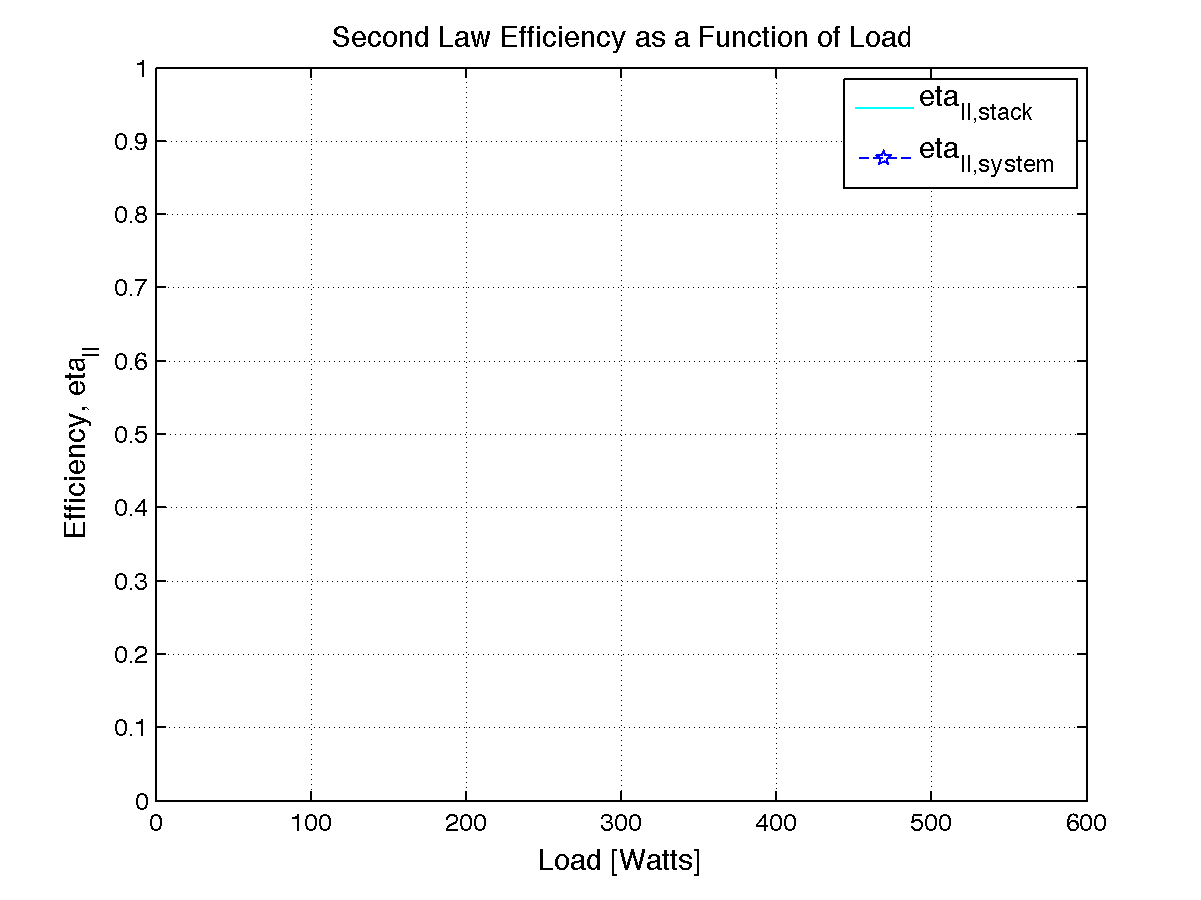
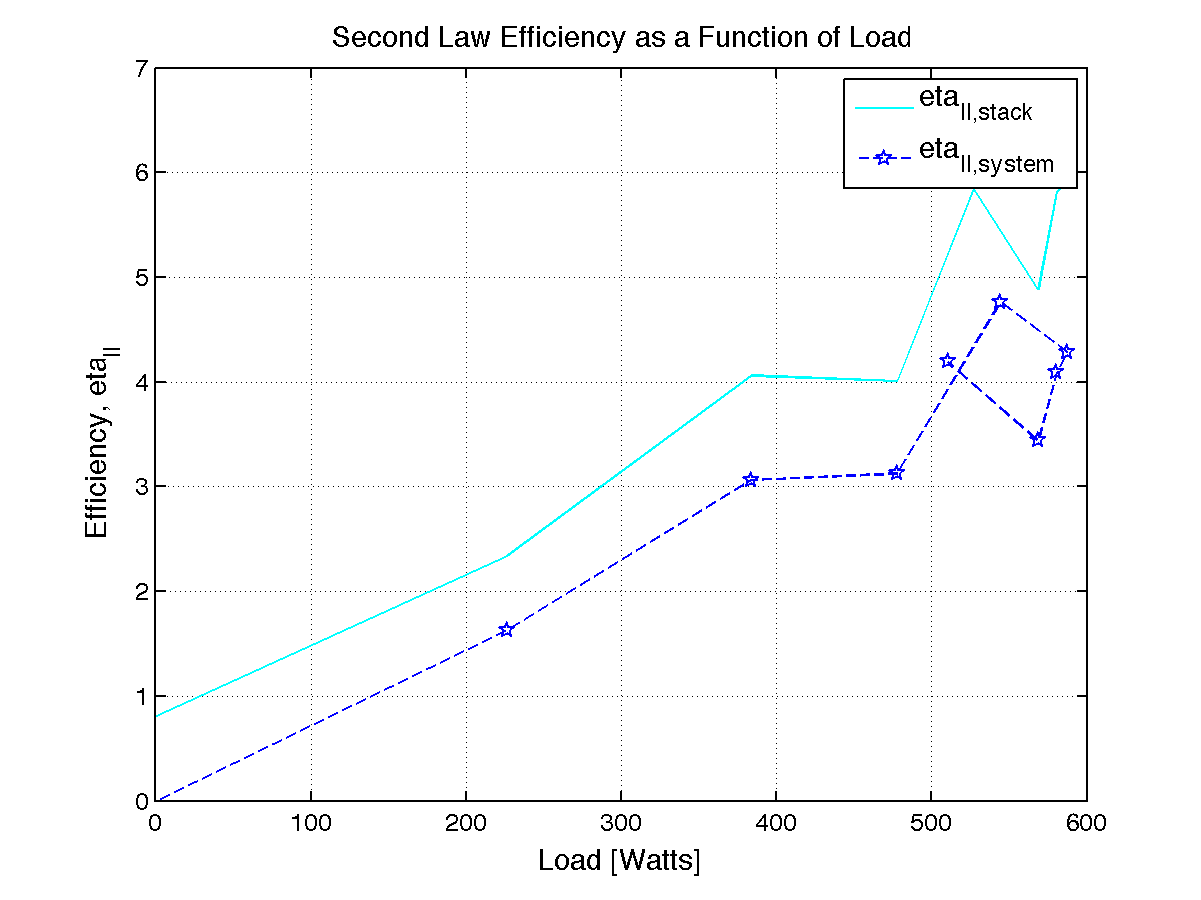
fixed units for efficiencies
still issues with eta_II

diff --git a/me140_project5/me140_project5.m b/me140_project5/me140_project5.m
@@ -10,12 +10,13 @@ G_TO_KG = 10^3;
 
 % Molar Masses
 MM_h = 1.00794; % g/mol
+MM_h2 = 2* MM_h;
 MM_o = 15.9994;
 MM_n = 14.0067;
 MM_h2o = 2*MM_h + MM_o;
 MM_air = 28.97;
 
-global PERMIN_TO_PERSEC PERHR_TO_PERSEC G_PER_KG LHV F N_TO_O SCF_TO_MOLS C_TO_K
+global PERMIN_TO_PERSEC PERHR_TO_PERSEC G_PER_KG LHV F N_TO_O SCF_TO_MOLS C_TO_K PSI_TO_PA
 defineGlobals();
 mol_H2 = 1;
 savePlots = 1;
@@ -27,18 +28,21 @@ savePlots = 1;
 i_load =  [0.00 15.06 27.25 36.48 45.1 52.1 56.3 57.6 56.4];       % [Amps]
 i_stack = [4.82 21.40 35.65 47.20 59.8 69.7 77.0 79.0 80.0];
 
+
 % Potentials (load & stack)
 v_load =  [17.07 15.05 14.08 13.10 12.07 11.27 10.31 9.87  9.05 ]; % [Volts]
 v_stack = [17.09 15.22 14.26 12.98 12.42 11.60 10.73 10.21 9.48];
 
+
 % Temperatures from Thermocouple Readings [C]
 % KEY: (Kendall please fill in with photo you took)
-T1_C = [42.8 42.9 46.1 48.5 50.5 52.8 54.8 55.8 56.5]; 
-T1 = T1_C + C_TO_K;                                                % [K],  T1, air into stack
-T2_C =     [42.5 45.8 45.8 48.4 50.3 51.9 53.3 53.9 54.3];         
-T2 = T2_C + C_TO_K;                                                % [K],  T2, air out of stack 
+T1_C = [42.8 42.9 46.1 48.5 50.5 52.8 54.8 55.8 56.5];
+T2_C =     [42.5 45.8 45.8 48.4 50.3 51.9 53.3 53.9 54.3];
 Tstack_C = [40.7 41.3 42.5 42.9 44.6 45.6 46.9 46.9 47.6];  
-Tstack = Tstack_C + C_TO_K;
+
+T1 = T1_C + C_TO_K;                                                % [K],  T1, air into stack
+T2 = T2_C + C_TO_K;                                                % [K],  T2, air out of stack 
+Tstack = Tstack_C + C_TO_K;                                        % [K],  metal plates on the stack
 
 % NOTE: T3-T5 are not needed for now
 % T3_C =     [48.0 47.1 48.6 48.9 50.4 51.1 51.2 51.1 51.1];       % T3, water reservoir DON'T USE!
@@ -48,23 +52,29 @@ Tstack = Tstack_C + C_TO_K;
 % T5_C =     [40.7 41.3 42.5 42.9 44.6 45.6 46.9 46.9 47.6];       % T5, water into heat exchanger
 % T5 = T5_C + C_TO_K;
 
+
 % Mass Flow Rates (TODO: check what units the mdots should be in)
-mdot_h2_scf =  [2.50 6.20 10.5 14.3 18.2 22.0 24.6 25.0 26.1];     % scf/hr (standard cubic feet/hour)
-mdot_air_scf = [0.75 1.10 1.45 1.81 2.55 3.10 3.30 3.25 3.40];     % scf/min
+mdot_total_scf = [0.75 1.10 1.45 1.81 2.55 3.10 3.30 3.25 3.40];   % scf/min
+mdot_fuel_scf =  [2.50 6.20 10.5 14.3 18.2 22.0 24.6 25.0 26.1];   % scf/hr (standard cubic feet/hour)
 
-mdot_h2 = mdot_h2_scf   * SCF_TO_MOLS * PERHR_TO_PERSEC * MM_h2  / G_TO_KG;  % kg/s	
-mdot_air = mdot_air_scf * SCF_TO_MOLS * PERMIN_TO_PERSEC* MM_air / G_TO_KG;  % kg/s
+mdot_total = mdot_air_scf * SCF_TO_MOLS * PERMIN_TO_PERSEC* MM_air / G_TO_KG;  % kg/s
+mdot_fuel = mdot_fuel_scf * SCF_TO_MOLS * PERHR_TO_PERSEC * MM_h2  / G_TO_KG;  % kg/s	
+mdot_h2o = 40 /G_TO_KG;                                                        % kg/s
 
-mdot_h2o = 40 /G_TO_KG;                                            % kg/s (ASSUMPTION for Part 3)
 
+% Pressures
+Pfuel_psi =  [2.9 2.9 3.1 3.3 3.30 3.20 3.00 3.0 3.1];              % [psi] (gauge)
+Ptotal_psi = [0.2 0.3 0.6 0.7 1.15 1.25 1.35 1.3 1.5];              % [psi] (gauge), pressure of combined air and H2O after humidifier
+Pfuel =  Pfuel_psi  .* PSI_TO_PA;                                   % [Pa] (gauge)
+Ptotal = Ptotal_psi .* PSI_TO_PA;                                   % [Pa] (gauge)
 
 % CALCULATIONS
 % ------------
 % Power (USE: p = i*v) 
 % NOTE: "Accessories" include H2O pump, air pump, H2 vent, & controller                 
-p_load =  i_load  .* v_load;                                        % a.k.a. "load" (power delivered to resistor bank)
+p_load =  i_load  .* v_load;                                        % [W] = [kg*m^2*s^-3], a.k.a. "load" (power delivered to resistor bank)
 p_stack = i_stack .* v_stack;
-p_access = p_stack - p_load;                                        % Acessory Power, i.e. power used to run controls. Pstack-Pload
+p_access = p_stack - p_load;                                        % [W], Acessory Power, i.e. power used to run controls. Pstack-Pload
 
 f1 = figure(1);
 plot(p_load,i_load,p_load,i_stack);
@@ -85,7 +95,7 @@ xlabel('Load []'); ylabel('Power []');
 legend('P_{stack}','P_{accessory}'); plotfixer();grid on;
 
 f4 = figure(4);
-plot(p_load,mdot_h2,p_load,mdot_air);
+plot(p_load,mdot_fuel,p_load,mdot_total);
 title('Mass Flow Rate as a Function of Load');
 xlabel('Load []'); ylabel('Mass Flow Rate []');
 legend('mdot_{H}','mdot_{air}'); plotfixer();grid on
@@ -97,10 +107,10 @@ legend('mdot_{H}','mdot_{air}'); plotfixer();grid on
 
 % 1st & 2nd Law Efficiencies (eta_I & eta_II) & Inefficiencies (Idot)
 % Stack
-[etaI_stack ,etaII_stack, Idot_stack] = findEtas(Tstack, p_stack);
+[etaI_stack ,etaII_stack, Idot_stack] = findEtas(mdot_total, mdot_fuel, Ptotal, Pfuel, T2, p_stack);
 
 % Entire System (Load)
-[etaI_load ,etaII_load, Idot_load] =    findEtas(Tstack, p_load);
+[etaI_load ,etaII_load, Idot_load] =    findEtas(mdot_total, mdot_fuel, Ptotal, Pfuel, T2, p_load);
 
 f5 = figure(5);
 plot(p_load,etaI_stack,'c',p_load,etaI_load,'bp--');

diff --git a/me140_project5/findEtas.m b/me140_project5/findEtas.m
@@ -7,9 +7,9 @@
 % (i) 1 mol of H2                    
 % (ii) isothermal & isobaric      % TODO: CHECK THESE ASSUMPTIONS!
 
-function [eta_I, eta_II, Idot] = findEtas(T,Wdot)
+function [eta_I, eta_II, Idot] = findEtas(mdot_total, mdot_fuel, Ptotal, Pfuel, T, Wdot)
 
-global PERMIN_TO_PERSEC PERHR_TO_PERSEC G_PER_KG LHV F N_TO_O SCF_TO_MOLS C_TO_K
+global PERMIN_TO_PERSEC PERHR_TO_PERSEC G_PER_KG LHV F N_TO_O SCF_TO_MOLS C_TO_K PSI_TO_PA
 defineGlobals();
 % Constants                                                  % Engineering Air Molar Mass Ratio of Nitrogen to Oxygen
 specs = Spec();                                                     % class initialization
@@ -21,21 +21,10 @@ MM_n = 14.0067;
 MM_h2o = 2*MM_h + MM_o;
 MM_air = 28.97;
 
-% Pressures
-Pfuel =  [2.9 2.9 3.1 3.3 3.30 3.20 3.00 3.0 3.1];                  % psi (gauge)
-Ptotal =   [0.2 0.3 0.6 0.7 1.15 1.25 1.35 1.3 1.5];                % psi (gauge), pressure of combined air and H2O after humidifier
-
-% Mass Flow Rates (TODO: check what units the mdots should be in)
-mdot_h2_scf =  [2.50 6.20 10.5 14.3 18.2 22.0 24.6 25.0 26.1];      % scf/hr (standard cubic feet/hour)
-mdot_h2 = mdot_h2_scf .* SCF_TO_MOLS * PERHR_TO_PERSEC;             % mols/s
-mdot_air_scf = [0.75 1.10 1.45 1.81 2.55 3.10 3.30 3.25 3.40];      % scf/min
-mdot_air = mdot_air_scf * SCF_TO_MOLS * PERMIN_TO_PERSEC;           % mols/s
-mdot_h2o = 40;                                                      % g/s (ASSUMPTION for Part 3) % TODO: convert this
-
 % Excess Air Coefficient (lambda)
 mol_h2 = 1;
 mol_h2o_prod = mol_h2;
-AF = mdot_air./mdot_h2;
+AF = mdot_total./mdot_fuel;
 mair = 0.5*(1+N_TO_O)*MM_air;
 mfuel = mol_h2*(2*MM_h);
 AFs = mair/mfuel;
@@ -99,18 +88,18 @@ y_n2_prod = mol_n2      ./ mol_total_prod;
 % Change in Gibbs Free Energy (dG)
 % --------------------------------
 % Reactants
-Gdot_react = gEng(T, Pfuel,             'h2',mol_h2)      .* mdot_h2 ...
-           + gEng(T, Ptotal .* y_o2_react,'o2',mol_o2_react).* mdot_air ...
-           + gEng(T, Ptotal .* y_n2_react,'n2',mol_n2)      .* mdot_air;
+Gdot_react = gEng(T, Pfuel,             'h2'  ,mol_h2)      .* mdot_fuel ...   % [J*kg*s^-1]
+           + gEng(T, Ptotal .* y_o2_react,'o2',mol_o2_react).* mdot_total ...
+           + gEng(T, Ptotal .* y_n2_react,'n2',mol_n2)      .* mdot_total;
 if(alpha ~= 0 ) 
-    Gdot_react = Gdot_react + gEng(T,Ptotal.*y_h2o_react,'h2ovap',alpha).* mdot_h2o; 
+    Gdot_react = Gdot_react + gEng(T,Ptotal.*y_h2o_react,'h2ovap',alpha).* mdot_total; 
 end
 
 % Products
-Gdot_prod = gEng(T, Ptotal.*y_h2ovap,   'h2ovap', mol_h2ovap) .* mdot_h2o... %% THIS WAS THE PART 2 BUG FROM PROJECT #4!
-          + gEng(T, Ptotal,            'h2o',    mol_h2oliq) .* mdot_h2o...
-          + gEng(T, Ptotal.*y_o2_prod, 'o2',     mol_o2_prod).* mdot_air...   
-          + gEng(T, Ptotal.*y_n2_prod, 'n2',     mol_n2)     .* mdot_air;
+Gdot_prod = gEng(T, Ptotal.*y_h2ovap,   'h2ovap', mol_h2ovap) .* mdot_total... %% THIS WAS THE PART 2 BUG FROM PROJECT #4!
+          + gEng(T, Ptotal,            'h2o',    mol_h2oliq)  .* mdot_total...
+          + gEng(T, Ptotal.*y_o2_prod, 'o2',     mol_o2_prod) .* mdot_total...   
+          + gEng(T, Ptotal.*y_n2_prod, 'n2',     mol_n2)      .* mdot_total;
 
 dGdot = Gdot_prod - Gdot_react; 
 
@@ -118,32 +107,33 @@ dGdot = Gdot_prod - Gdot_react;
 % Change in Enthalpy (dH)
 % -----------------------
 % Reactants
-Hdot_react = hEng(T,'h2', mol_h2)       .* mdot_h2... 
-           + hEng(T, 'o2', mol_o2_react).* mdot_air...
-           + hEng(T, 'n2', mol_n2)      .* mdot_air;
+Hdot_react = hEng(T,'h2', mol_h2)       .* mdot_fuel... 
+           + hEng(T, 'o2', mol_o2_react).* mdot_total...
+           + hEng(T, 'n2', mol_n2)      .* mdot_total;
 if(alpha ~= 0 )
-    Hdot_react = Hdot_react + hEng(T,'h2ovap',alpha) .* mdot_h2o; 
+    Hdot_react = Hdot_react + hEng(T,'h2ovap',alpha) .* mdot_total; 
 end
 
 % Products
-Hdot_prod = hEng(T,'h2ovap', mol_h2ovap) .* mdot_h2o...
-          + hEng(T,'h2o',    mol_h2oliq) .* mdot_h2o...
-          + hEng(T,'o2',     mol_o2_prod).* mdot_air...
-          + hEng(T,'n2',     mol_n2)     .* mdot_air;
+Hdot_prod = hEng(T,'h2ovap', mol_h2ovap) .* mdot_total...
+          + hEng(T,'h2o',    mol_h2oliq) .* mdot_total...
+          + hEng(T,'o2',     mol_o2_prod).* mdot_total...
+          + hEng(T,'n2',     mol_n2)     .* mdot_total;
       
 dHdot = Hdot_prod - Hdot_react;
 
 
 % Rate of Work (Wdot)
 % -------------------
-Ndot = mol_h2 .*mdot_h2;         
+Ndot = mol_h2 .*mdot_fuel;         
 Idot = -Wdot - dGdot;              
 
 
 % Find First and Second Law Efficiencies (eta_I, eta_II)
 % ------------------------------------------------------
-eta_I  = Wdot ./ (-dHdot);
-eta_II = Wdot ./ (-dGdot);
+%eta_I = Wdot ./ (-dHdot);
+eta_I  = Wdot ./ (LHV*mdot_fuel);      % [ (kg*m^2*s^-3) /  (kg*m^2*s^-2)*(kg^-1)*(kg*s^-1)] 
+eta_II = (Wdot) ./ (-dGdot ./ mfuel); % [ (kg*m^2*s^-3) / ((kg*m^2*s^-2)*(kg*s^-1) / kg)
 
 
 specs.mol_air =      mol_air;

diff --git a/me140_project5/energyF.m b/me140_project5/energyF.m
@@ -11,12 +11,12 @@ function out = energyF(T,P,species,moles)
     % cpbar in J/mol-K
     % cp in J/kg-K
     
-    P0 = 101.3e3;   % Pa
-    R = 8.314;      % J/mol-K
+    P0 = 101.3e3;                               % [Pa]
+    R = 8.314;                                  % [J/(mol*K)]
     
     
     if(~exist('moles','var')) moles = 1; end
-    T0 = 298;                % K, Standard Temperature
+    T0 = 298;                                   % [K], Standard Temperature
     [co2, h2ovap, h2o, n2, o2, air, airConst,h2] = deal(1,2,3,4,5,6,7,8);
     
     fit{co2} =    [22.26, 5.981*10^-2,   -3.501 *10^-5, 7.469*10^-9  ];
@@ -29,7 +29,7 @@ function out = energyF(T,P,species,moles)
     fit{h2} =     [29.11, -.1916e-2,     0.4003e-5     -0.8704e-9];
 
     
-    hf{co2} = -393520;      % J/mol
+    hf{co2} = -393520;      % [J/mol]
     hf{h2ovap} = -241820; 
     hf{h2o} = -285830;      % for liquid water
     hf{n2} = 0;
@@ -38,9 +38,9 @@ function out = energyF(T,P,species,moles)
     hf{airConst} = 0;
     hf{h2} = 0;
     
-    sf{co2} = 213.8; %J/(mol * K)
+    sf{co2} = 213.8;        % [J/(mol*K)]
     sf{h2ovap} = 188.83; 
-    sf{h2o} = 69.92; % for liquid water
+    sf{h2o} = 69.92;        % for liquid water
     sf{n2} = 191.61;
     sf{o2} = 205.04;
     %sf{air} = sf{n2}*3.76/4.76 + sf{o2}/4.76; %** cannot do
@@ -48,7 +48,7 @@ function out = energyF(T,P,species,moles)
     sf{h2} = 130.68;
     
 
-%     gf{co2} = -394360;      % J/mol
+%     gf{co2} = -394360;      % [J/mol]
 %     gf{h2ovap} = -228590; 
 %     gf{h2o} = -237180;      % for liquid water
 %     gf{n2} = 0;
@@ -94,17 +94,15 @@ function out = energyF(T,P,species,moles)
 %     I2 = a*log(T0/T) + b*(T0 - T) + c/2*(T0^2 - T^2) + d/3*(T0^3 - T^3) + e/4*(T0^4 - T^4);
 
     gPerKg = 1000;
-    out.cpbar = (a + b*T + c*T.^2 + d*T.^3); % J/mol-k, Mol Specific Heat
-    out.cp = out.cpbar/m{i}*gPerKg;          % J/g-k,   Specific Heat
+    out.cpbar = (a + b*T + c*T.^2 + d*T.^3); % [J/(mol*k)], Mol Specific Heat
+    out.cp = out.cpbar/m{i}*gPerKg;          % [J/(g*k)],   Specific Heat
     
     % integrate cp from t0 to t in j/mol kelvin
-    delH = (a*(T - T0) + b*(T.^2 - T0.^2)/2 + c*(T.^3 - T0.^3)/3 + d*(T.^4 - T0.^4)/4); 
-    intCpbarOnT = a*log(T./T0) + b*(T - T0) + c*(T.^2 - T0.^2)/2 + d*(T.^3 - T0.^3)/3;
-    delS = intCpbarOnT - R *log(P/P0); 
+    delH = (a*(T - T0) + b*(T.^2 - T0.^2)/2 + c*(T.^3 - T0.^3)/3 + d*(T.^4 - T0.^4)/4); % [J/mol]
+    intCpbarOnT = a*log(T./T0) + b*(T - T0) + c*(T.^2 - T0.^2)/2 + d*(T.^3 - T0.^3)/3;  % [J/mol]
+    delS = intCpbarOnT - R *log(P/P0);                                                  % [J/mol]
     
-    out.S = (sf{i} + delS).*moles;           % Entropy
-    out.H = (hf{i} + delH).*moles;           % Enthalpy 
-    out.G = out.H - T.*out.S; % Gibbs Free Energy
-    %**double check this calculation
-    
+    out.S = (sf{i} + delS).*moles;           % [J], Entropy
+    out.H = (hf{i} + delH).*moles;           % [J], Enthalpy 
+    out.G = out.H - T.*out.S;                % [J], Gibbs Free Energy
 end

diff --git a/me140_project5/defineGlobals.m b/me140_project5/defineGlobals.m
@@ -1,14 +1,27 @@
 function  defineGlobals( )
 
-global PERMIN_TO_PERSEC PERHR_TO_PERSEC G_PER_KG LHV F N_TO_O SCF_TO_MOLS C_TO_K
+global PERMIN_TO_PERSEC PERHR_TO_PERSEC G_PER_KG LHV F N_TO_O SCF_TO_MOLS C_TO_K PSI_TO_PA
+% Temperature
 C_TO_K = 273.15;
+
+% Mass
 G_PER_KG = 1000;
-PERHR_TO_PERSEC = 60*60;
-PERMIN_TO_PERSEC = 60;
-LHV = 120.0*10^6;     % J/kg,  Lower Heating Value H2  
-F = 96485;         % C/(mol of e-), Faraday's Constant
-N_TO_O = 79/21;  
+
+% Time
+PERHR_TO_PERSEC = 1/(60*60);
+PERMIN_TO_PERSEC = 1/60;
+
+% Volume
 SCF_TO_MOLS = 1.19804;
+
+% Pressure
+PSI_TO_PA = 6894.76;
+
+% Useful Constants
+LHV = 120.0*10^6;     % J/kg,  Lower Heating Value H2  
+F = 96485;            % C/(mol of e-), Faraday's Constant
+N_TO_O = 79/21;  
+
 
 
 end
